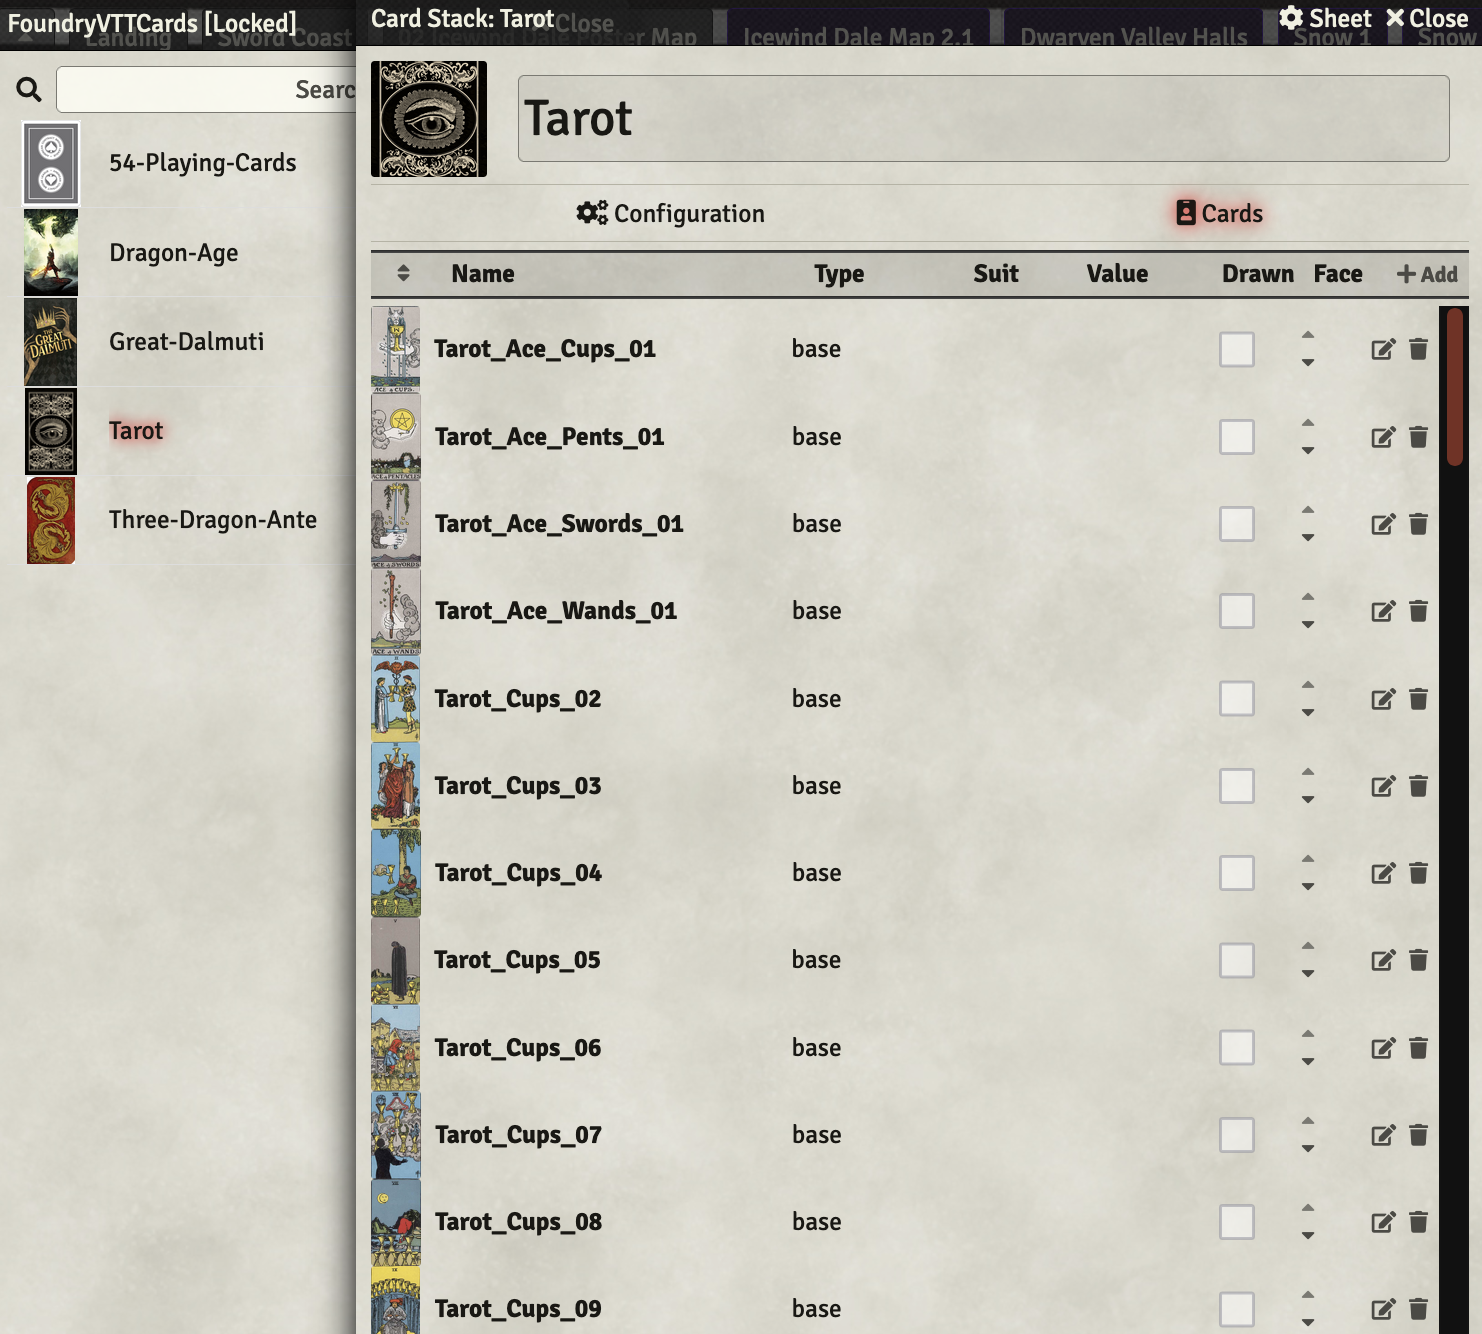
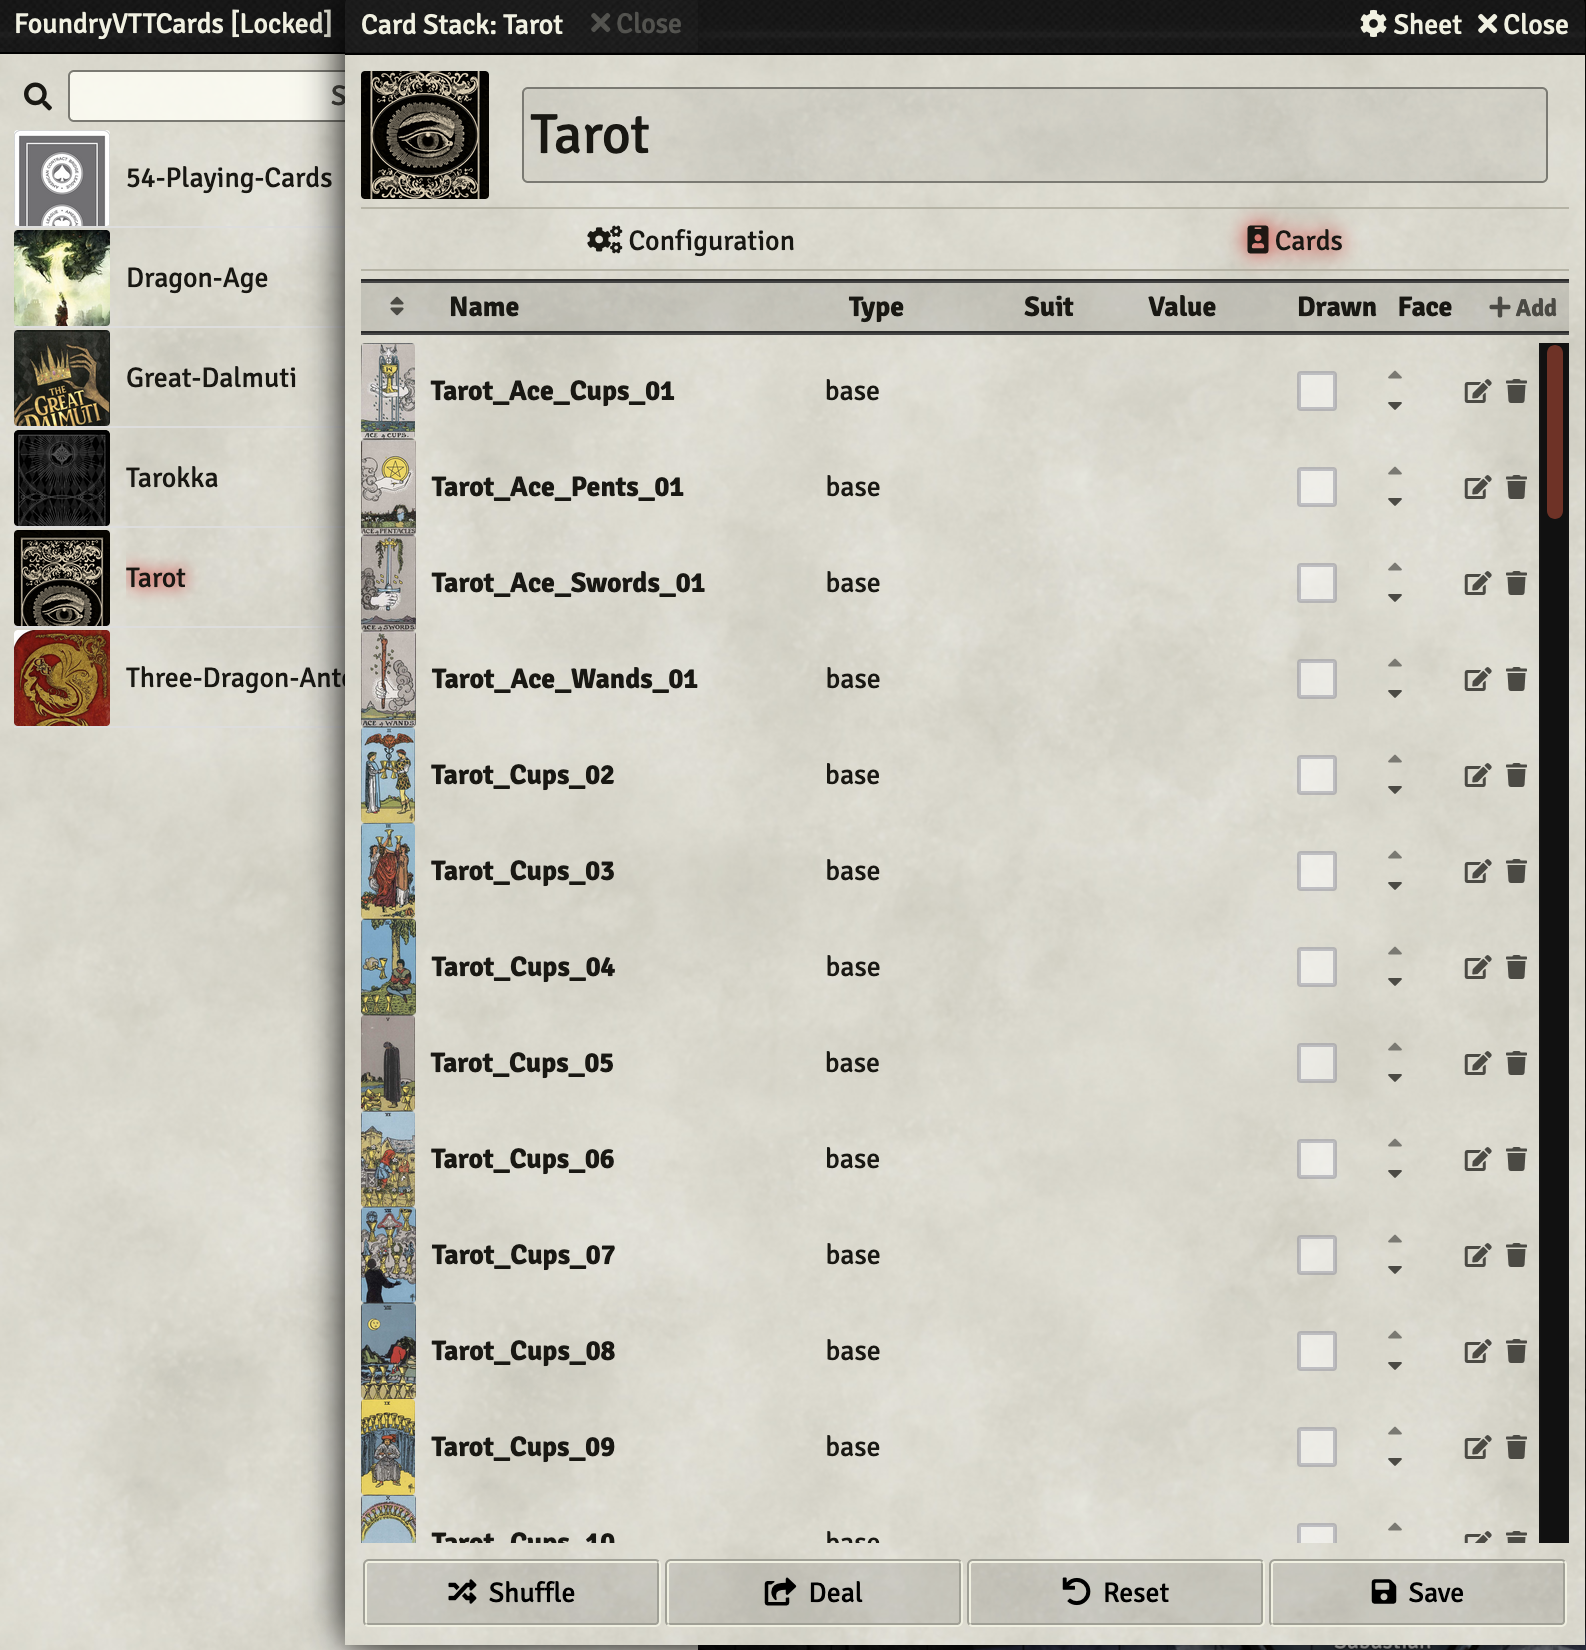
Added Tarokka Deck

diff --git a/README.md b/README.md
@@ -5,6 +5,7 @@
 - Three Dragon Ante
 - Tarot Card Deck
 - Dragon Age Deck
+- Tarokka Deck
 
 ## To Install in your Foundry v9 instance
 
